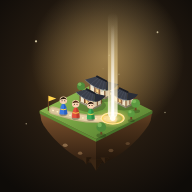
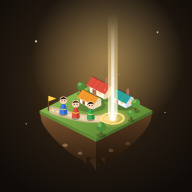
Doll picker shows the same colorful outfit as the map; generic houses in the art
- The profile/lobby doll preview used the original brown outfit while the
  map dresses everyone in the team color with a per-person accent; both now
  use the same recolored outfit (cream robe and a note until a team is set).
- The island art and app icons swap the hanok for ordinary colorful houses,
  since the game is meant for anywhere people gather.

Claude-Session: https://claude.ai/code/session_01JuxhZRu3y7UEdGURrJz1RJ

Changed region(s): [[0.4062, 0.375, 0.7188, 0.5938]]

diff --git a/app.js b/app.js
@@ -78,8 +78,12 @@ $('#resetBtn').onclick = async () => {
 
 /* ---------- 별칭·인형 ---------- */
 let draft = { gender: 'm', avatar: pick(OUTFITS.m) };
+// 고르는 화면의 인형도 지도와 같은 알록달록 옷으로: 겉옷은 지금 내 팀 색(팀이 아직 없으면 밝은 미색), 망토는 나만의 색
+const myLook = () => (G.code && G.members[net.me()]?.team || (G.code && solo()) ? colorOf(net.me()) : '#efe4c8');
+const myThumb = t => W.avatarThumb(t, myLook(), net.me() || '');
 function drawDraft() {
-  $('#avatarImg').src = W.avatarThumb(draft.avatar);
+  $('#avatarImg').src = myThumb(draft.avatar);
+  $('#lookNote').textContent = G.code && (solo() || G.members[net.me()]?.team) ? '' : '겉옷은 팀이 정해지면 팀 색으로 바뀌어요';
   document.querySelectorAll('#genderSeg button').forEach(b => b.classList.toggle('on', b.dataset.g === draft.gender));
 }
 document.querySelectorAll('#genderSeg button').forEach(b => (b.onclick = () => { draft.gender = b.dataset.g; draft.avatar = pick(OUTFITS[draft.gender]); drawDraft(); }));
@@ -106,7 +110,7 @@ $('#profSave').onclick = async () => {
 
 /* ---------- 게임 고르기 ---------- */
 function toLobby() {
-  $('#lobbyAvatar').src = W.avatarThumb(profile.avatar);
+  $('#lobbyAvatar').src = myThumb(profile.avatar);
   $('#lobbyName').textContent = profile.name;
   $('#lobbyEmail').textContent = user.email || '';
   show('lobby');

diff --git a/index.html b/index.html
@@ -85,7 +85,7 @@
   <div class="card narrow">
     <p class="eyebrow">내 인형</p>
     <h2 class="title sm">지도 위에서 나를 대신할 인형</h2>
-    <div class="avatarbox"><img id="avatarImg" alt=""><button class="btn ghost small" id="reroll" data-ic="dice">다시 뽑기</button></div>
+    <div class="avatarbox"><img id="avatarImg" alt=""><span class="fine" id="lookNote"></span><button class="btn ghost small" id="reroll" data-ic="dice">다시 뽑기</button></div>
     <div class="seg" id="genderSeg"><button data-g="m" class="on">남자</button><button data-g="f">여자</button></div>
     <label class="fine">별칭 — 지도 이름표와 검색에 쓰여요
       <input id="profName" placeholder="별칭 (2~12자)" maxlength="12" minlength="2"></label>

diff --git a/_src/hero.py b/_src/hero.py
@@ -1,4 +1,4 @@
-# 시작 화면 그림: 공중에 뜬 전주 한옥마을 땅 조각 + 미션 빛기둥 + 세 팀 미니미
+# 시작 화면 그림: 공중에 뜬 작은 마을 땅 조각 (어느 동네든 사람이 모이면 된다) + 미션 빛기둥 + 세 팀 미니미
 # 만들기: python3 _src/hero.py assets/hero.svg
 import math, sys
 U = (1.0, 0.5); V = (-1.0, 0.5)          # 등각: 동쪽(오른쪽 뒤→앞), 남쪽(왼쪽 앞)
@@ -11,45 +11,35 @@ def G(a, b, h=0): return P(CX, CY - R*0.5 - 0, a, b, h)  # 땅 북쪽 꼭짓점 
 # 땅 꼭짓점: 북 (0,0) 동 (R,0) 남 (R,R) 서 (0,R)
 N, E, S, Wst = G(0,0), G(R,0), G(R,R), G(0,R)
 D = 22  # 두께
-def hanok(a, b, w, d, h, s=1.0):
-    # 바닥 네 귀퉁이
+def house(a, b, w, d, h, roof='#e0503d', wall='#fff3dc', side='#e8d6b4', s=1.0):
+    # 어느 동네에나 있을 법한 작은 집: 밝은 벽, 박공지붕(앞으로 비탈, 옆은 세모 벽)
     p0, p1, p2, p3 = G(a,b), G(a+w,b), G(a+w,b+d), G(a,b+d)
     up = lambda p, hh: (p[0], p[1]-hh)
     W(f'<ellipse cx="{(p0[0]+p2[0])/2:.1f}" cy="{(p0[1]+p2[1])/2+3:.1f}" rx="{w*1.15:.1f}" ry="{w*0.5:.1f}" fill="#000" opacity=".22"/>')
-    # 기단(돌)
-    st = 4
-    W(f'<polygon points="{pts(p3, p2, up(p2,st), up(p3,st))}" fill="#9a8f7d"/>')
-    W(f'<polygon points="{pts(p2, p1, up(p1,st), up(p2,st))}" fill="#7c7262"/>')
-    q0,q1,q2,q3 = [up(p,st) for p in (p0,p1,p2,p3)]
-    # 벽: 앞(남) 흰 벽 + 나무 기둥, 옆(동)
-    W(f'<polygon points="{pts(q3, q2, up(q2,h), up(q3,h))}" fill="#f1e6cc"/>')
-    W(f'<polygon points="{pts(q2, q1, up(q1,h), up(q2,h))}" fill="#d6c7a6"/>')
-    for t in (0, 0.33, 0.66, 1):
-        x = q3[0] + (q2[0]-q3[0])*t; y = q3[1] + (q2[1]-q3[1])*t
-        W(f'<line x1="{x:.1f}" y1="{y:.1f}" x2="{x:.1f}" y2="{y-h:.1f}" stroke="#7a4a26" stroke-width="2.4"/>')
-    for t in (0.5, 1):
-        x = q2[0] + (q1[0]-q2[0])*t; y = q2[1] + (q1[1]-q2[1])*t
-        W(f'<line x1="{x:.1f}" y1="{y:.1f}" x2="{x:.1f}" y2="{y-h:.1f}" stroke="#6a3f20" stroke-width="2.2"/>')
-    # 문살 창 (앞벽 가운데 칸)
-    m0 = (q3[0]+(q2[0]-q3[0])*0.4, q3[1]+(q2[1]-q3[1])*0.4); m1 = (q3[0]+(q2[0]-q3[0])*0.6, q3[1]+(q2[1]-q3[1])*0.6)
-    W(f'<polygon points="{pts((m0[0],m0[1]-h*0.15),(m1[0],m1[1]-h*0.15),(m1[0],m1[1]-h*0.8),(m0[0],m0[1]-h*0.8))}" fill="#ffd98a" stroke="#7a4a26" stroke-width="1.4"/>')
-    # 지붕: 처마를 내밀고 끝을 들어 올린 기와지붕 (팔작 비슷하게)
-    o = 7*s; rh = h*0.95
-    e0, e1, e2, e3 = G(a-o, b-o*0.6), G(a+w+o, b-o*0.6), G(a+w+o, b+d+o*0.6), G(a-o, b+d+o*0.6)
-    e0,e1,e2,e3 = [up(p, st+h) for p in (e0,e1,e2,e3)]
-    r0 = up(G(a+w*0.18, b+d/2), st+h+rh); r1 = up(G(a+w*0.82, b+d/2), st+h+rh)
-    lift = 7*s
-    # 앞 지붕면 (남쪽 처마 e3→e2, 용마루 r0→r1) — 처마 끝을 들어 올림
-    W(f'<path d="M{e3[0]:.1f},{e3[1]-lift:.1f} Q{(e3[0]+e2[0])/2:.1f},{(e3[1]+e2[1])/2+4:.1f} {e2[0]:.1f},{e2[1]-lift:.1f} L{r1[0]:.1f},{r1[1]:.1f} L{r0[0]:.1f},{r0[1]:.1f} Z" fill="#3b3f4a"/>')
-    # 동쪽 지붕면 (합각)
-    W(f'<path d="M{e2[0]:.1f},{e2[1]-lift:.1f} Q{(e2[0]+e1[0])/2:.1f},{(e2[1]+e1[1])/2+3:.1f} {e1[0]:.1f},{e1[1]-lift:.1f} L{r1[0]:.1f},{r1[1]:.1f} Z" fill="#2a2d36"/>')
-    # 기와 골
-    for t in (0.2, 0.4, 0.6, 0.8):
-        x0 = e3[0]+(e2[0]-e3[0])*t; y0 = e3[1]+(e2[1]-e3[1])*t
-        x1 = r0[0]+(r1[0]-r0[0])*t; y1 = r0[1]+(r1[1]-r0[1])*t
-        W(f'<line x1="{x0:.1f}" y1="{y0+1:.1f}" x2="{x1:.1f}" y2="{y1:.1f}" stroke="#555b6a" stroke-width="1.2" opacity=".8"/>')
-    W(f'<line x1="{r0[0]:.1f}" y1="{r0[1]:.1f}" x2="{r1[0]:.1f}" y2="{r1[1]:.1f}" stroke="#1c1e25" stroke-width="4" stroke-linecap="round"/>')
-    W(f'<path d="M{e3[0]:.1f},{e3[1]-lift:.1f} Q{(e3[0]+e2[0])/2:.1f},{(e3[1]+e2[1])/2+4:.1f} {e2[0]:.1f},{e2[1]-lift:.1f}" fill="none" stroke="#8a93a6" stroke-width="1.6" opacity=".7"/>')
+    W(f'<polygon points="{pts(p3, p2, up(p2,h), up(p3,h))}" fill="{wall}"/>')
+    W(f'<polygon points="{pts(p2, p1, up(p1,h), up(p2,h))}" fill="{side}"/>')
+    # 옆 세모 벽 (용마루는 동서로, 옆면 가운데 위)
+    mid = up(((p1[0]+p2[0])/2, (p1[1]+p2[1])/2), h + h*0.75)
+    W(f'<polygon points="{pts(up(p2,h), up(p1,h), mid)}" fill="{side}"/>')
+    # 문과 창
+    def at(t, hh): return (p3[0]+(p2[0]-p3[0])*t, p3[1]+(p2[1]-p3[1])*t-hh)
+    W(f'<polygon points="{pts(at(.18,0), at(.36,0), at(.36,h*.62), at(.18,h*.62))}" fill="#8a5a34"/>')
+    W(f'<polygon points="{pts(at(.52,h*.3), at(.8,h*.3), at(.8,h*.75), at(.52,h*.75))}" fill="#ffd98a" stroke="#fff" stroke-width="1.6"/>')
+    sx = lambda t, hh: (p2[0]+(p1[0]-p2[0])*t, p2[1]+(p1[1]-p2[1])*t-hh)
+    W(f'<polygon points="{pts(sx(.35,h*.3), sx(.65,h*.3), sx(.65,h*.7), sx(.35,h*.7))}" fill="#ffd98a" opacity=".85"/>')
+    # 지붕: 처마를 조금 내밀고, 앞 비탈과 용마루
+    o = 4*s
+    e3 = up(G(a-o, b+d+o), h-1); e2 = up(G(a+w+o, b+d+o), h-1)
+    r0 = up(G(a-o, b+d/2), h + h*0.75); r1 = up(G(a+w+o, b+d/2), h + h*0.75)
+    W(f'<polygon points="{pts(e3, e2, r1, r0)}" fill="{roof}"/>')
+    for t in (.25, .5, .75):
+        x0 = e3[0]+(e2[0]-e3[0])*t; y0 = e3[1]+(e2[1]-e3[1])*t; x1 = r0[0]+(r1[0]-r0[0])*t; y1 = r0[1]+(r1[1]-r0[1])*t
+        W(f'<line x1="{x0:.1f}" y1="{y0:.1f}" x2="{x1:.1f}" y2="{y1:.1f}" stroke="#000" stroke-width="1" opacity=".12"/>')
+    W(f'<line x1="{e3[0]:.1f}" y1="{e3[1]:.1f}" x2="{e2[0]:.1f}" y2="{e2[1]:.1f}" stroke="#fff" stroke-width="1.6" opacity=".35"/>')
+    W(f'<line x1="{r0[0]:.1f}" y1="{r0[1]:.1f}" x2="{r1[0]:.1f}" y2="{r1[1]:.1f}" stroke="#000" stroke-width="2.4" opacity=".25" stroke-linecap="round"/>')
+    # 굴뚝 하나
+    c0 = up(G(a+w*0.7, b+d*0.3), h + h*0.55)
+    W(f'<rect x="{c0[0]-3:.1f}" y="{c0[1]-12:.1f}" width="6" height="14" fill="#b0705a"/>')
 def tree(a, b, r=11, c='#4f8a3a'):
     x, y = G(a, b)
     W(f'<ellipse cx="{x:.1f}" cy="{y+2:.1f}" rx="{r:.1f}" ry="{r*0.45:.1f}" fill="#000" opacity=".22"/>')
@@ -105,12 +95,12 @@ d = f'M{pa[0][0]:.1f},{pa[0][1]:.1f} C{pa[1][0]:.1f},{pa[1][1]:.1f} {pa[2][0]:.1
 W(f'<path d="{d}" fill="none" stroke="#c8b285" stroke-width="18" stroke-linecap="round" opacity=".9"/>')
 W(f'<path d="{d}" fill="none" stroke="url(#path)" stroke-width="13" stroke-linecap="round"/>')
 W(f'<path d="{d}" fill="none" stroke="#fff3c8" stroke-width="3.5" stroke-linecap="round" stroke-dasharray="1 9" opacity=".9"/>')
-# 한옥들·나무 (뒤에서 앞으로 그린다)
-hanok(14, 8, 34, 20, 15)
-hanok(64, 6, 28, 18, 13, 0.85)
+# 집들·나무 (뒤에서 앞으로 그린다)
+house(14, 8, 34, 20, 16, '#e0503d')
+house(64, 6, 28, 18, 14, '#2fa39a', '#f4f8ff', '#d6dde8', 0.85)
 tree(108, 18, 10, '#5c9a40')
 tree(6, 40, 9)
-hanok(28, 46, 30, 18, 13, 0.9)
+house(28, 46, 30, 18, 14, '#f29a2e', '#fffaf0', '#eadcc0', 0.9)
 # 미션 빛기둥 + 반경 고리
 bx, by = G(100, 62)
 W(f'<ellipse cx="{bx:.1f}" cy="{by:.1f}" rx="44" ry="22" fill="url(#glow)"/>')

diff --git a/CLAUDE.md b/CLAUDE.md
@@ -16,7 +16,7 @@
 - 로컬 실행: `python -m http.server 8765` 후 http://localhost:8765/?demo (로그인 없이 가짜 참가자들이 걸어 다니는 데모)
 
 ## 구조
-- `index.html`, `style.css`, `app.js` — 화면과 흐름: 시작 화면(떠 있는 한옥마을 땅 조각 그림 `assets/hero.svg` — `_src/hero.py`로 만든다. 앱 아이콘도 이 그림 — `_src/icon.py` 후 `_src/icon-png.cjs` — 과 비전 퀘스트 등장, 2.8초, 누르면 넘어감. 제목 글씨는 `.vq-title`: 아이폰에서 깨지는 text-stroke 대신 그림자 테두리 + 금빛 그러데이션) → 로그인(구글·이메일) → 별칭·인형 → 게임 코드 / 새 게임 → 팀 → 3D 지도. 점수판, 미션·사람·소식·진행 탭, 별칭·팀 검색, GPS, 미션 판정, 진행자 도구
+- `index.html`, `style.css`, `app.js` — 화면과 흐름: 시작 화면(떠 있는 작은 마을 땅 조각 그림 `assets/hero.svg` — `_src/hero.py`로 만든다. 앱 아이콘도 이 그림 — `_src/icon.py` 후 `_src/icon-png.cjs` — 과 비전 퀘스트 등장, 2.8초, 누르면 넘어감. 제목 글씨는 `.vq-title`: 아이폰에서 깨지는 text-stroke 대신 그림자 테두리 + 금빛 그러데이션) → 로그인(구글·이메일) → 별칭·인형 → 게임 코드 / 새 게임 → 팀 → 3D 지도. 점수판, 미션·사람·소식·진행 탭, 별칭·팀 검색, GPS, 미션 판정, 진행자 도구
 - `net.js` — Firebase(Auth + Realtime Database). 자료 구조는 파일 머리 주석과 `database.rules.json`이 같아야 한다
 - `demo.js` — `?demo`일 때 net.js 대신 쓰는 메모리 속 흉내. net.js에 함수를 더하면 여기에도 더한다
 - `world.js` — three.js 장면: 지형, 참가자 인형(팀색 고리·이름표), 미션 표지(빛기둥·반경 고리), 카메라 조작, 누르기. 내 위치(◎) 첫 번째 누름은 나를 화면 가운데에 붙여 따라가기, 두 번째는 진행 방향 고정(진행 방향 — 움직이면 GPS 이동 방향, 멈추면 폰 나침반, 둘 다 없으면 걸어간 방향 — 이 늘 위, 배율은 그대로, 손으로 돌리기 막음), 세 번째는 해제. 단추 아이콘이 단계마다 바뀐다(회색 과녁·파란 과녁·파란 화살). 내 진행 방향은 파란 빛살·화살촉
@@ -31,7 +31,7 @@
 - `database.rules.json` — 보안 규칙. 진행자(meta/host = 게임을 만든 사람, meta/hosts = 그가 회원 중에서 더한 진행자)만 미션·팀·판정. 진행자 더하기·빼기와 host 바꾸기는 만든 사람만, 참가자는 자기 좌표·자기 팀의 완료·자기 개인 완료만(`!data.exists()`), 사진 확인이 필요한 미션은 'wait'로만
 
 ## 게임 규칙의 요점
-- 인형: 가입 때 남/여만 고르면 그 길의 옷차림(`OUTFITS`) 중 하나를 무작위로 입힌다. 다시 뽑기 가능. 별칭(2~12자)은 필수 — 이름표와 검색에 쓰인다
+- 인형: 가입 때 남/여만 고르면 그 길의 옷차림(`OUTFITS`) 중 하나를 무작위로 입힌다. 다시 뽑기 가능. 고르는 화면·로비의 인형도 지도와 같은 옷(겉옷 내 팀 색, 팀 전엔 미색 · 망토 나만의 색)으로 보인다(`myThumb`). 별칭(2~12자)은 필수 — 이름표와 검색에 쓰인다
 - 방식: 팀전(팀 수 2~10, 게임 중에도 진행 탭 '팀 정하기'에서 더하고 뺀다) 또는 개인전(`meta.mode = 'solo'`, 점수판에 사람마다). 팀전에서도 개인 미션(`mission.each`)은 팀원 각자 해서 점수를 자기 팀에 보탠다. 개인 완료는 `pdone/{uid}/{mid}`(완료할 때의 팀을 적어 둔다), 팀 미션 완료는 `done/{tid}/{mid}`
 - 끝나는 시간: 진행자가 진행 탭 '끝나는 시간'에서 언제든 정하고 바꾸고 없앤다(`meta.endAt`). 정하면 소식으로 모두에게 알리고 폰을 울린다. 위쪽에 남은 시간, 5분·1분 전 알림, 시간이 되면 진행자 화면이 게임을 끝낸다. 규칙도 그 뒤의 참가자 완료를 막는다(`now < endAt`)
 - 결과: 게임이 끝나는 순간(진행자가 끝내거나 시간이 다 되면) 모두에게 결과 화면(시상대·메달·순위, 우리 팀 몇 등)을 띄우고, 미션 탭 위에 '결과 보기'를 남긴다
